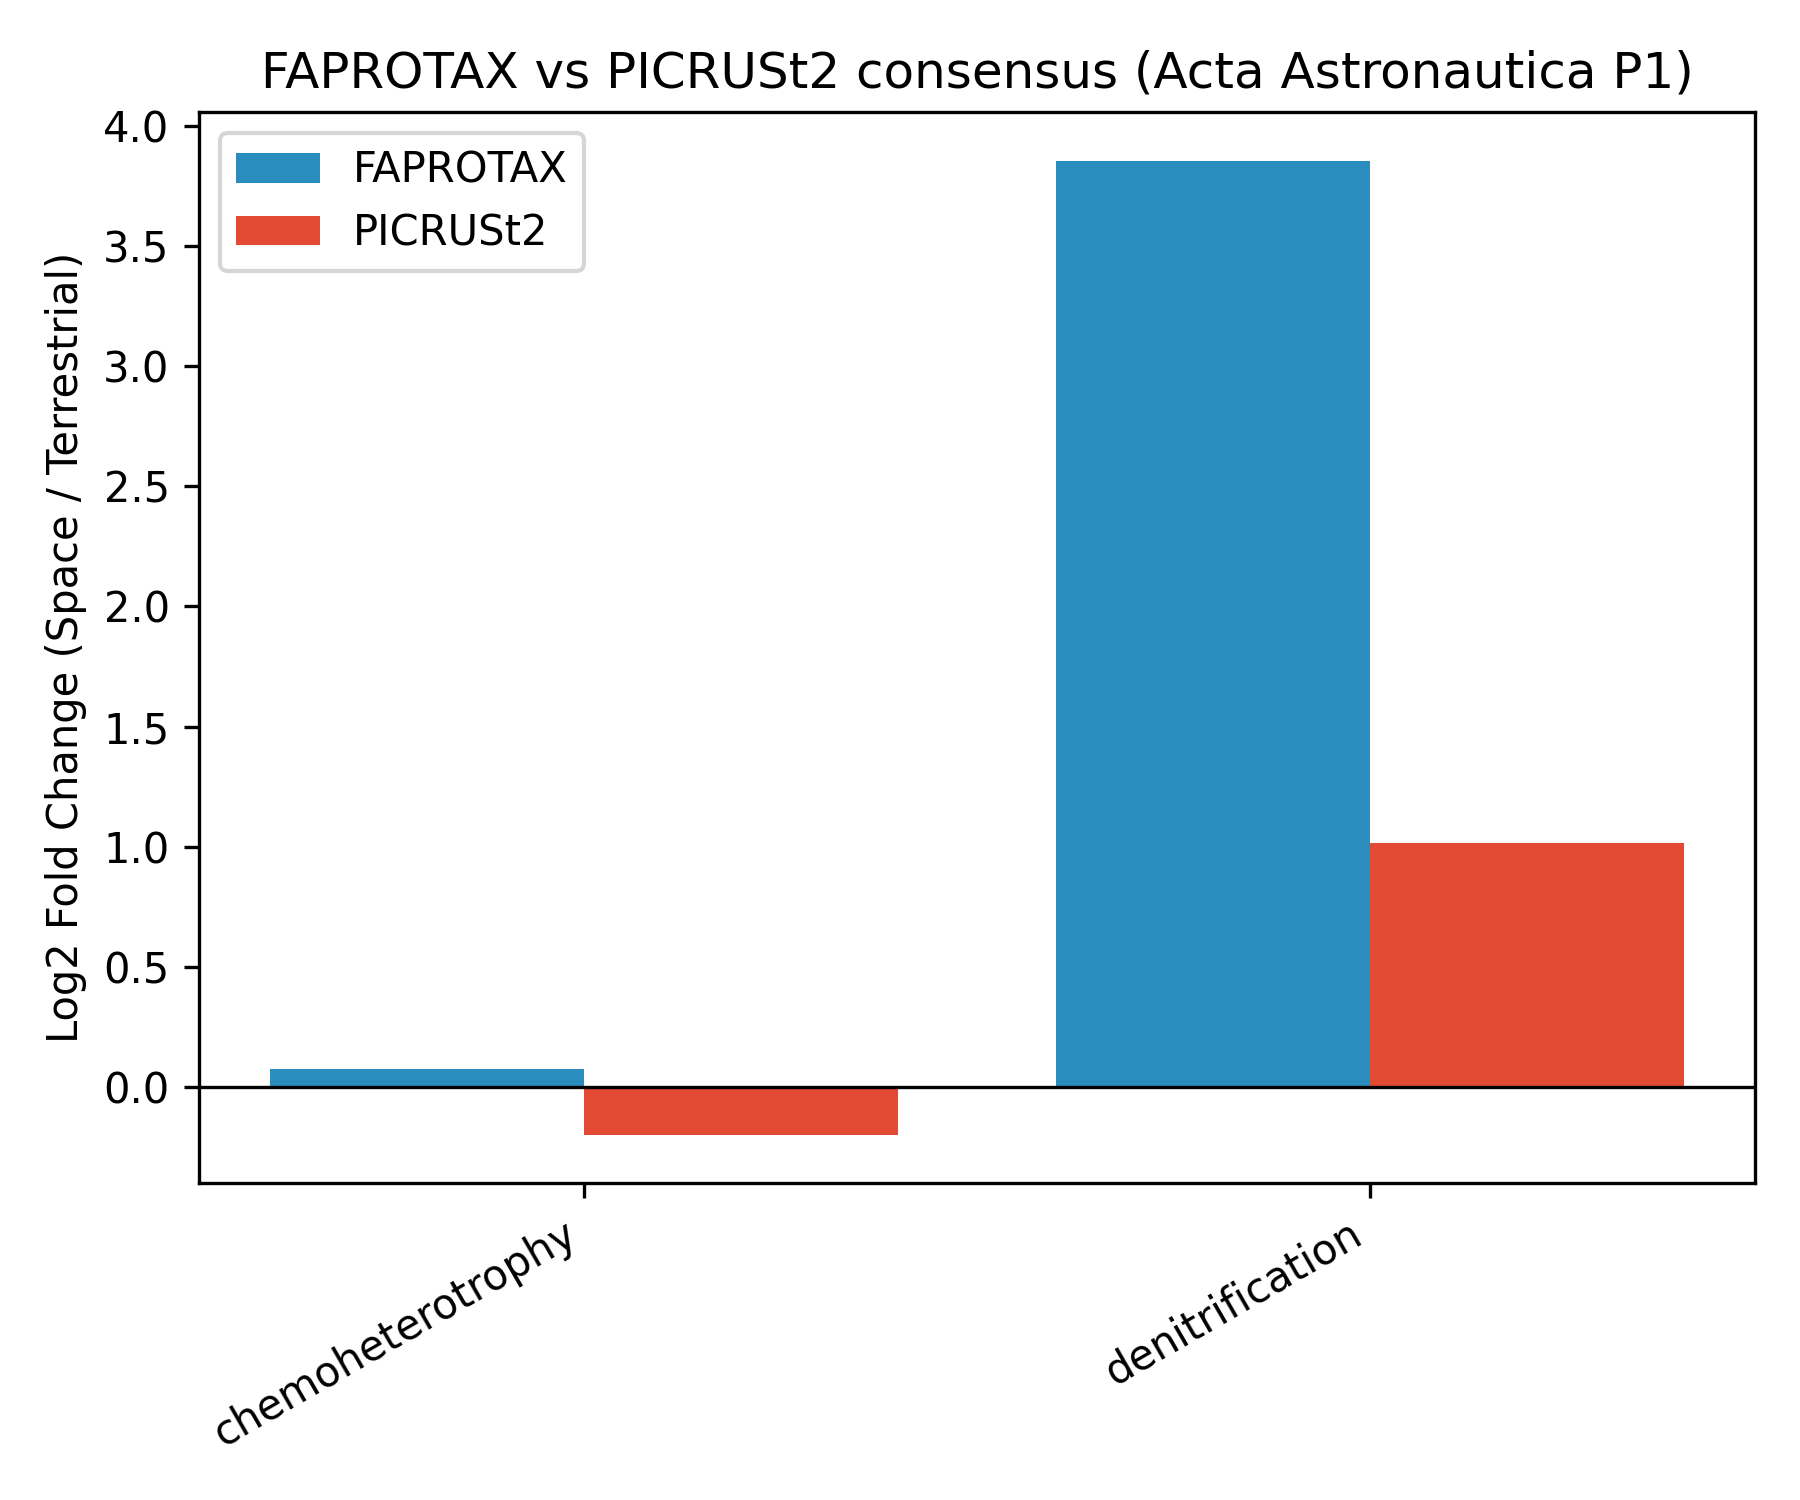
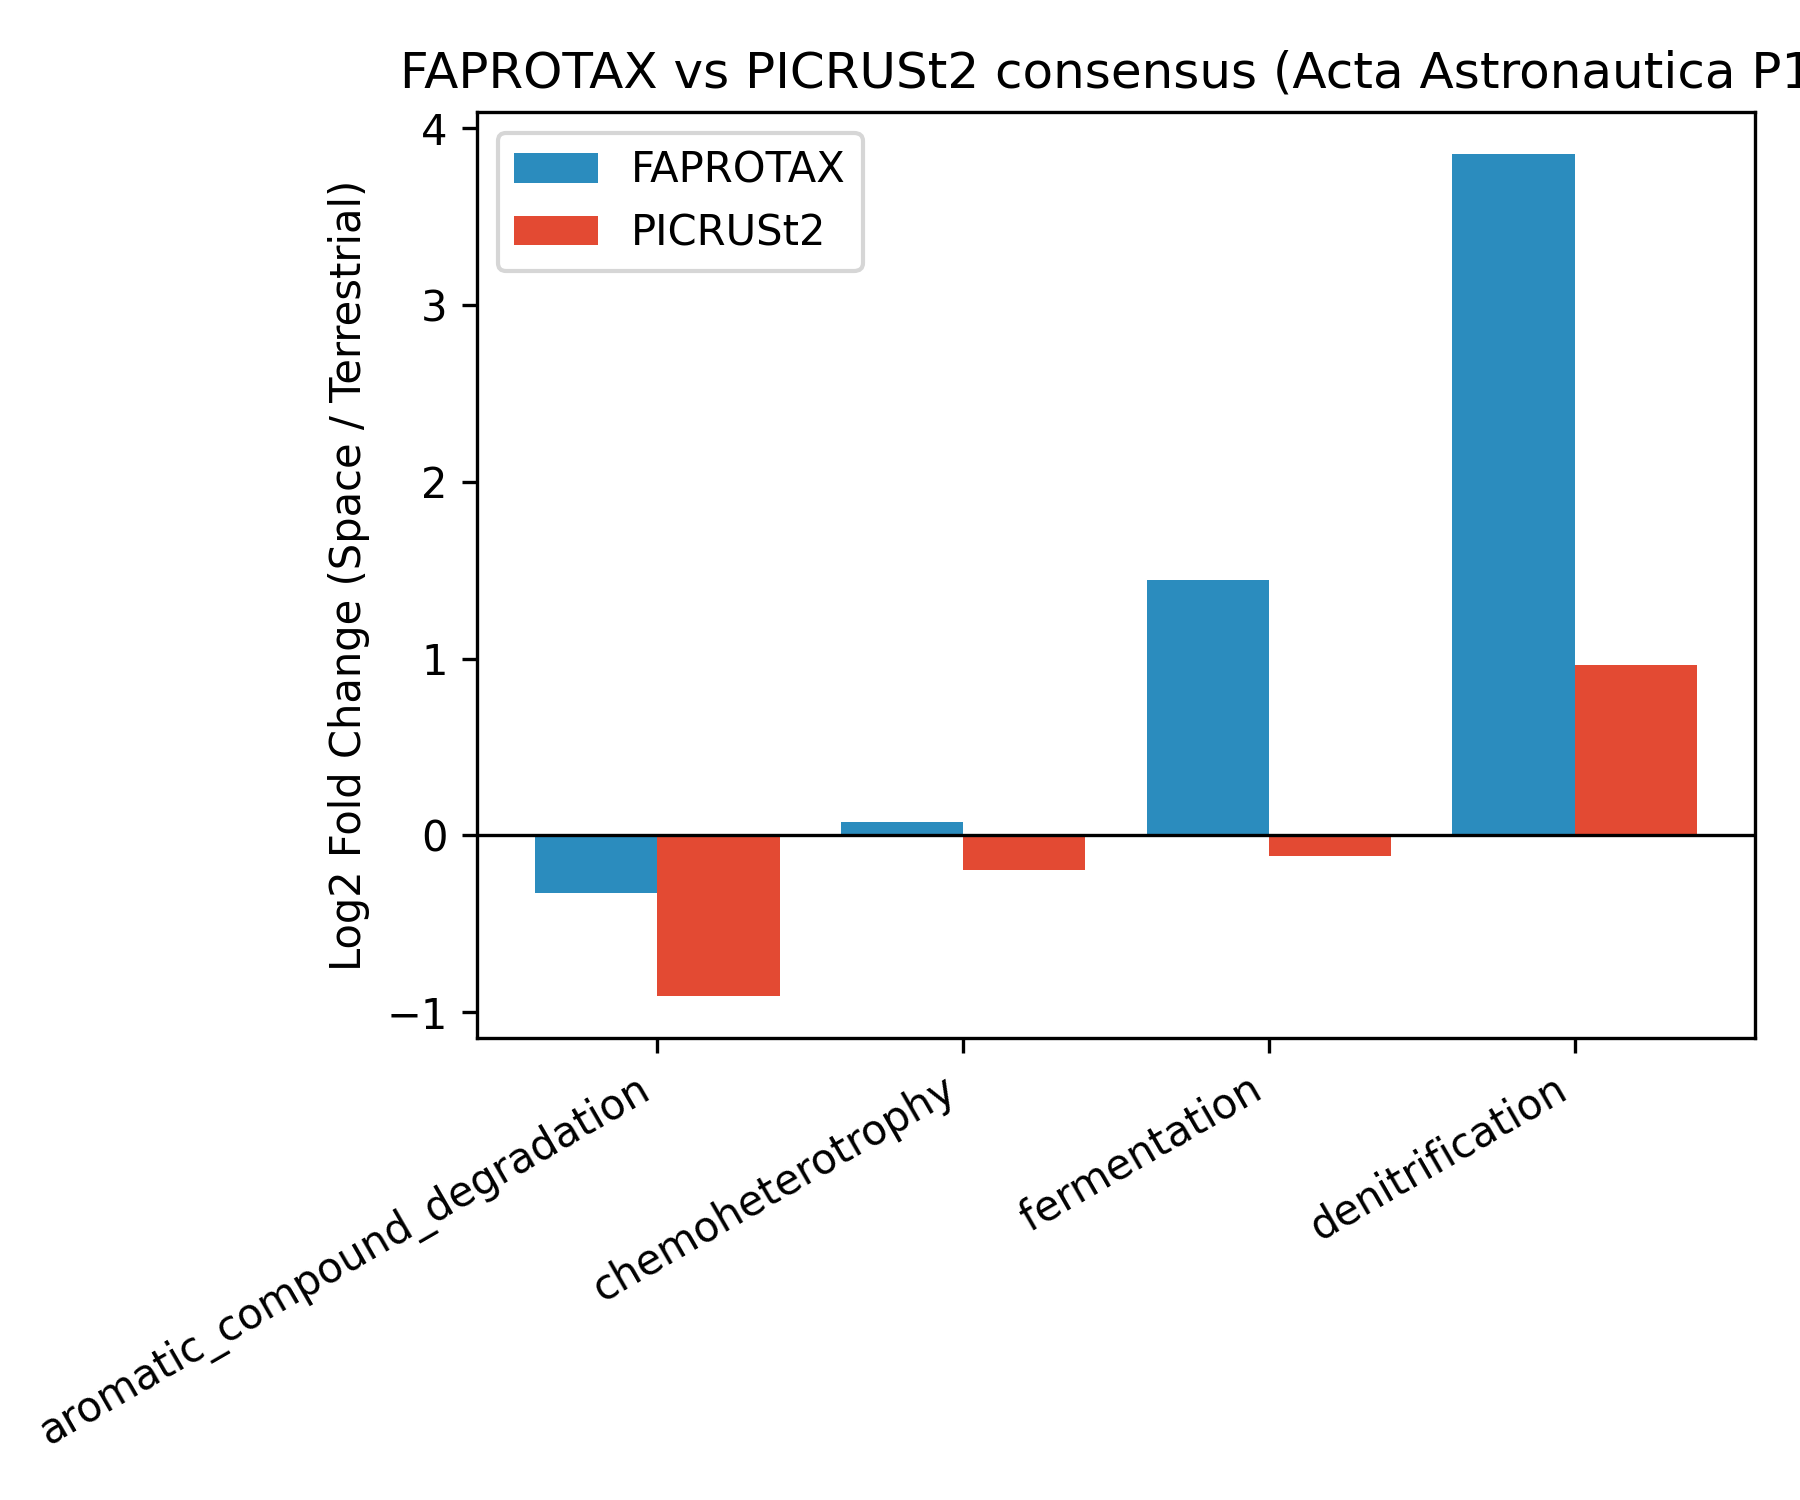
Expand script 35 mapping; document nitrification PICRUSt2 coverage gap
Discovered during Task 2 execution that the default PICRUSt2 MetaCyc
reference used in this study includes denitrification pathways but no
canonical nitrification or N-fixation pathways. Expanded the function
mapping to cover denitrification (3 pathways), chemoheterotrophy,
fermentation, and aromatic-compound degradation using pathway IDs
verified present in path_abun_unstrat.tsv.gz. Kept nitrification and
nitrogen_fixation as empty mapping keys so the coverage gap surfaces
in diagnostic output. Updated tests accordingly (4 passing). Revised
the design spec P1 framing: nitrification validation is now routed
through FAPROTAX -> GTDB genome evidence (Task 3), which is stronger
than two in-silico predictions agreeing.

diff --git a/35_picrust2_faprotax_consensus.py b/35_picrust2_faprotax_consensus.py
@@ -3,8 +3,16 @@ Script 35: PICRUSt2 / FAPROTAX Consensus Harmonization
 
 Harmonizes MetaCyc pathway-level Log2FC predictions from PICRUSt2 with
 FAPROTAX function-level Log2FC into a consensus table for the Acta
-Astronautica manuscript (Prediction P1: functional redundancy collapse
-underlies nitrogen-cycle failure in ISS rhizospheres).
+Astronautica manuscript (Prediction P1).
+
+Coverage caveat (documented 2026-04-15)
+---------------------------------------
+The default PICRUSt2 MetaCyc reference pathways used here cover
+denitrification and broad heterotrophic/fermentative metabolism well,
+but do NOT include canonical nitrification (ammonia/nitrite oxidation)
+or nitrogen-fixation pathways. Those functions are therefore validated
+via FAPROTAX plus the GTDB genome-level N-cycle gene evidence produced
+by script 36 (Fig 3b), rather than by pathway-level consensus here.
 
 Outputs:
     - acta_astronautica/consensus_function_log2fc.csv
@@ -21,15 +29,48 @@ import config
 
 
 # ---------------------------------------------------------------------------
-# Function -> MetaCyc pathway seed mapping
+# Function -> MetaCyc pathway mapping
+#
+# Curated 2026-04-15 against the actual pathway IDs present in the PICRUSt2
+# output for this study. Each listed ID has been verified present in
+# path_abun_unstrat.tsv.gz; functions left empty (nitrification, nitrogen
+# fixation) have no PICRUSt2 MetaCyc pathway coverage and are handled by
+# FAPROTAX + GTDB genome evidence elsewhere in the pipeline.
 # ---------------------------------------------------------------------------
 _FUNCTION_MAPPING = {
-    "nitrification": ["PWY-6523", "PWY-6964"],
-    "denitrification": ["PWY-5674", "DENITRIFICATION-PWY", "PWY-7084"],
-    "nitrogen_fixation": ["PWY-6963", "N2FIX-PWY"],
-    "chemoheterotrophy": ["TCA", "GLYCOLYSIS", "PWY-6142"],
-    "ureolysis": ["PWY-5329"],
-    "nitrate_reduction": ["PWY-381", "PWY-490-3"],
+    # Canonical denitrification pathways (three hits).
+    "denitrification": [
+        "DENITRIFICATION-PWY",
+        "PWY-5384",
+        "PWY-7084",
+    ],
+    # Broad aerobic/anaerobic heterotrophic metabolism.
+    "chemoheterotrophy": [
+        "GLYCOLYSIS",
+        "TCA",
+        "PWY-6142",
+    ],
+    # Mixed-acid and sugar fermentation pathways.
+    "fermentation": [
+        "FERMENTATION-PWY",
+        "ANAEROFRUCAT-PWY",
+        "P122-PWY",
+        "P461-PWY",
+        "P161-PWY",
+        "P241-PWY",
+        "P108-PWY",
+    ],
+    # Aromatic compound degradation (PGPR-relevant trait).
+    "aromatic_compound_degradation": [
+        "P221-PWY",
+        "P23-PWY",
+        "P42-PWY",
+    ],
+    # Nitrification and nitrogen fixation: retained as keys with empty
+    # ID lists so the coverage gap is explicit in diagnostics; both will
+    # be dropped by aggregate_by_function.
+    "nitrification": [],
+    "nitrogen_fixation": [],
 }
 
 

diff --git a/tests/test_consensus_harmonization.py b/tests/test_consensus_harmonization.py
@@ -1,25 +1,55 @@
 import pandas as pd
 from importlib import import_module
+
 m = import_module("35_picrust2_faprotax_consensus")
 
-def test_map_picrust_to_function_groups_nitrification():
-    # PICRUSt2 MetaCyc pathways relevant to nitrification
-    pathways = pd.Series({
-        "PWY-6523": 2.0,      # ammonia oxidation I
-        "PWY-5674": 1.5,      # nitrate reduction IV (denitrification)
-        "UNRELATED-PWY": 0.1,
-    })
+
+def test_build_function_mapping_has_denitrification_coverage():
     mapping = m.build_function_mapping()
-    assert "nitrification" in mapping
-    assert "PWY-6523" in mapping["nitrification"]
+    assert "denitrification" in mapping
+    assert "DENITRIFICATION-PWY" in mapping["denitrification"]
+    # Nitrification and nitrogen_fixation are retained as keys but have no
+    # PICRUSt2 pathway coverage (documented gap); aggregator drops them.
+    assert mapping.get("nitrification") == []
+    assert mapping.get("nitrogen_fixation") == []
+
+
+def test_aggregate_by_function_routes_pathways_correctly():
+    mapping = {
+        "denitrification": ["DENITRIFICATION-PWY", "PWY-7084"],
+        "chemoheterotrophy": ["GLYCOLYSIS", "TCA"],
+        "nitrification": [],  # no coverage
+    }
+    pathways = pd.Series({
+        "DENITRIFICATION-PWY": 1.0,
+        "PWY-7084": 0.5,
+        "GLYCOLYSIS": 2.0,
+        "TCA": 3.0,
+        "UNRELATED-PWY": 99.0,
+    })
     agg = m.aggregate_by_function(pathways, mapping)
-    assert agg["nitrification"] == 2.0
     assert agg["denitrification"] == 1.5
+    assert agg["chemoheterotrophy"] == 5.0
+    assert "nitrification" not in agg.index  # dropped (empty mapping)
     assert "UNRELATED-PWY" not in agg.index
 
+
 def test_consensus_direction_agreement():
-    faprotax_log2fc = pd.Series({"nitrification": -10.0, "denitrification": -3.0, "chemoheterotrophy": 0.5})
-    picrust_log2fc  = pd.Series({"nitrification":  -6.0, "denitrification": -2.5, "chemoheterotrophy": 0.8})
+    faprotax_log2fc = pd.Series(
+        {"denitrification": -3.0, "chemoheterotrophy": 0.5, "fermentation": -1.0}
+    )
+    picrust_log2fc = pd.Series(
+        {"denitrification": -2.5, "chemoheterotrophy": 0.8, "fermentation": -0.9}
+    )
     result = m.consensus(faprotax_log2fc, picrust_log2fc)
     assert (result["agreement"] == True).all()
-    assert result.loc["nitrification", "consensus_log2fc"] < 0
+    assert result.loc["denitrification", "consensus_log2fc"] < 0
+    assert result.loc["chemoheterotrophy", "consensus_log2fc"] > 0
+
+
+def test_consensus_disagreement_flag():
+    faprotax = pd.Series({"f1": -1.0, "f2": 2.0})
+    picrust = pd.Series({"f1": 0.5, "f2": 2.5})
+    result = m.consensus(faprotax, picrust)
+    assert result.loc["f1", "agreement"] == False
+    assert result.loc["f2", "agreement"] == True
